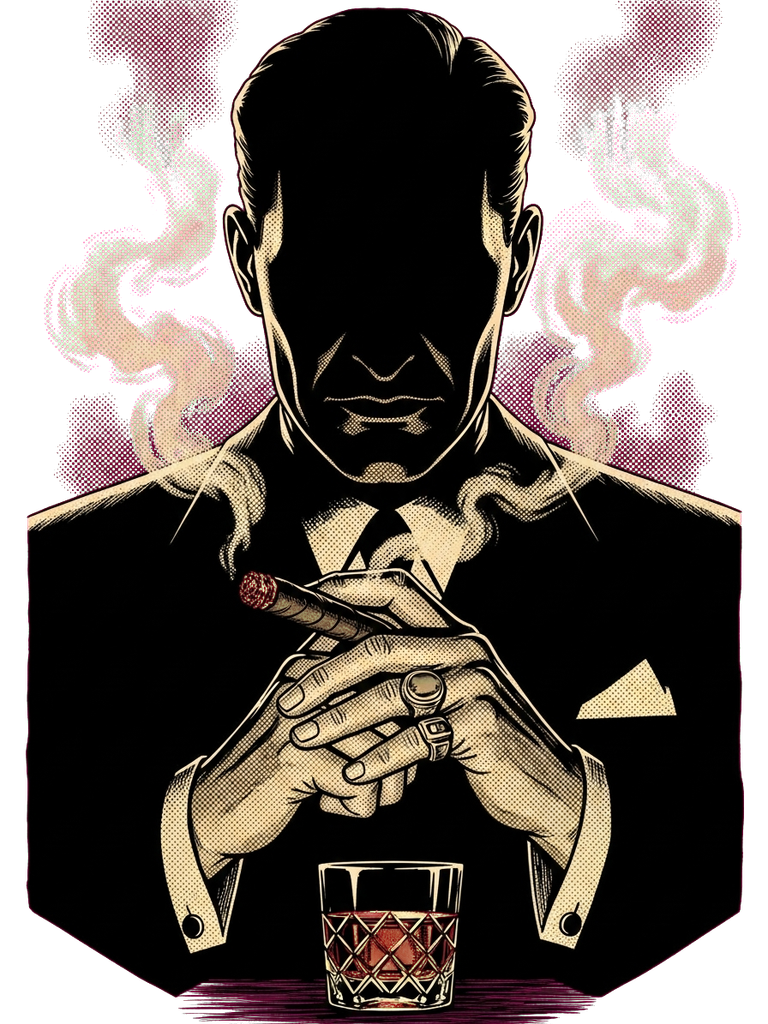
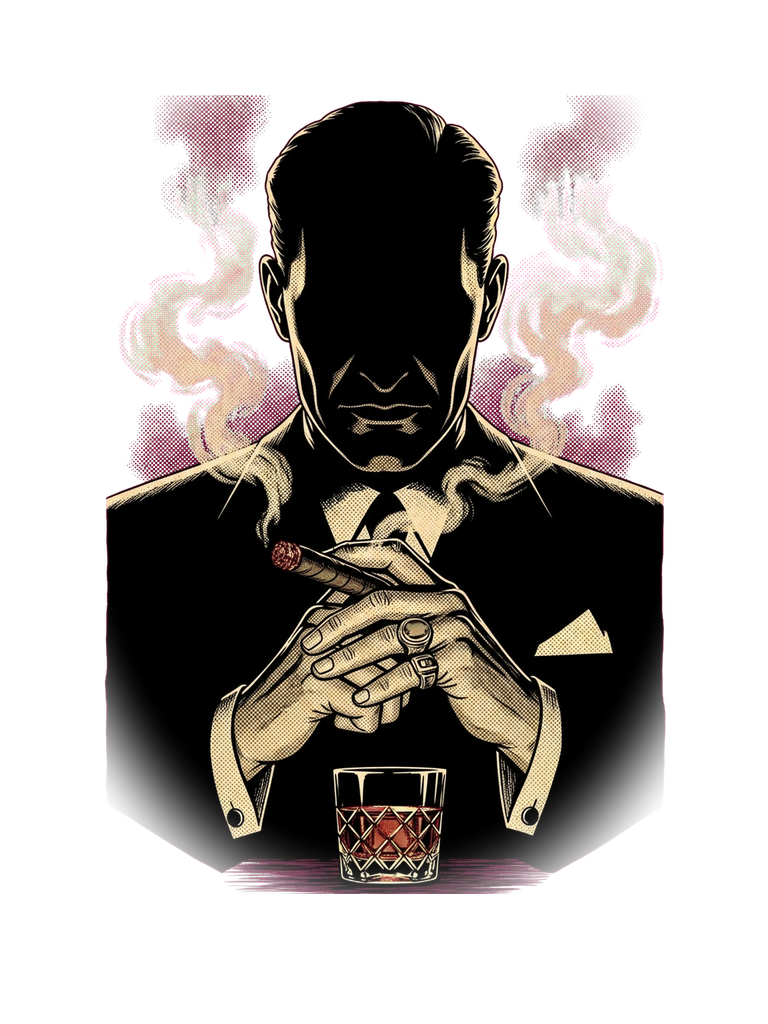
fix: rescale mob boss to match citizen/soldier visual weight (45.6% fill)
Scaled subject to 78% and centered on transparent canvas with vignette.
Fill now matches citizen (48.4%) and soldier (42.6%). Previewed locally
in simulated card layout before deploying. Cache bust v5.

diff --git a/projects/undercover-mob-boss/public/how-to-play.html b/projects/undercover-mob-boss/public/how-to-play.html
@@ -1258,7 +1258,7 @@
       </div>
       <div class="role-card">
         <div class="role-card__art-wrap">
-          <img src="/assets/role-mob-boss.png?v=4" alt="Mob Boss" class="role-card__art" loading="lazy" />
+          <img src="/assets/role-mob-boss.png?v=5" alt="Mob Boss" class="role-card__art" loading="lazy" />
           <div class="role-card__art-fade"></div>
         </div>
         <div class="role-card__body">
